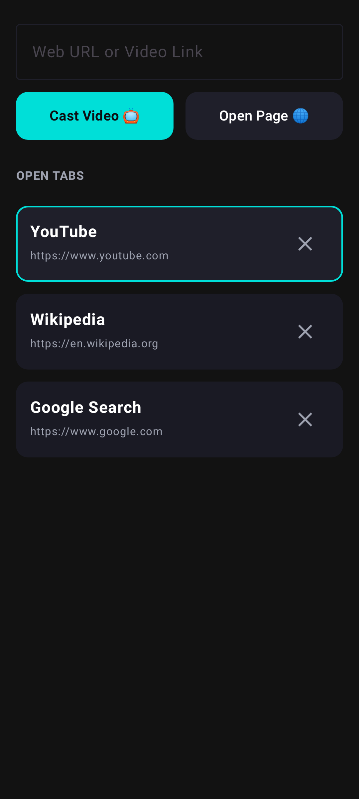
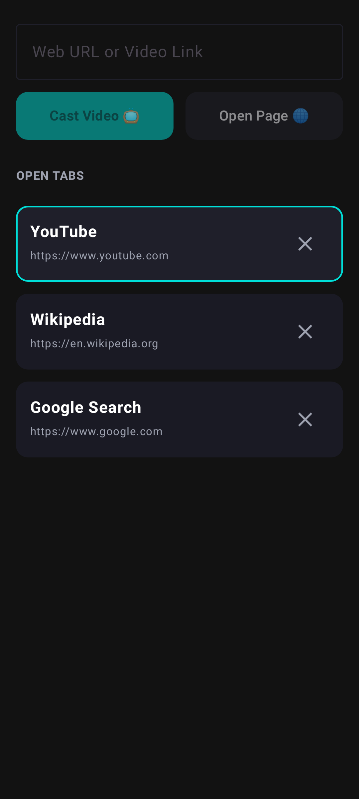
🎨 Palette: Add visual disabled states to input-dependent buttons (#34)

Changed region(s): [[0.0306, 0.0901, 0.4903, 0.1802], [0.6128, 0.1202, 0.8579, 0.1802]]

diff --git a/app/src/main/java/com/teleport/app/mobile/MobileRemoteScreen.kt b/app/src/main/java/com/teleport/app/mobile/MobileRemoteScreen.kt
@@ -256,9 +256,15 @@ fun PairingScreen(
                 },
                 modifier = Modifier.height(56.dp),
                 shape = RoundedCornerShape(12.dp),
-                colors = ButtonDefaults.buttonColors(containerColor = ThemeTokens.Accent)
+                enabled = manualIp.isNotBlank(),
+                colors = ButtonDefaults.buttonColors(
+                    containerColor = ThemeTokens.Accent,
+                    contentColor = ThemeTokens.Background,
+                    disabledContainerColor = ThemeTokens.Accent.copy(alpha = 0.5f),
+                    disabledContentColor = ThemeTokens.Background.copy(alpha = 0.5f)
+                )
             ) {
-                Text("Go", color = ThemeTokens.Background, fontWeight = FontWeight.Bold)
+                Text("Go", fontWeight = FontWeight.Bold)
             }
         }
 
@@ -785,9 +791,15 @@ fun TabsManagerTab(connectionManager: TvConnectionManager, tvState: com.teleport
                 },
                 modifier = Modifier.weight(1f).height(48.dp),
                 shape = RoundedCornerShape(12.dp),
-                colors = ButtonDefaults.buttonColors(containerColor = ThemeTokens.Accent)
+                enabled = newUrl.isNotBlank(),
+                colors = ButtonDefaults.buttonColors(
+                    containerColor = ThemeTokens.Accent,
+                    contentColor = ThemeTokens.Background,
+                    disabledContainerColor = ThemeTokens.Accent.copy(alpha = 0.5f),
+                    disabledContentColor = ThemeTokens.Background.copy(alpha = 0.5f)
+                )
             ) {
-                Text("Cast Video 📺", color = ThemeTokens.Background, fontWeight = FontWeight.Bold)
+                Text("Cast Video 📺", fontWeight = FontWeight.Bold)
             }
             Spacer(modifier = Modifier.width(12.dp))
             Button(
@@ -803,9 +815,15 @@ fun TabsManagerTab(connectionManager: TvConnectionManager, tvState: com.teleport
                 },
                 modifier = Modifier.weight(1f).height(48.dp),
                 shape = RoundedCornerShape(12.dp),
-                colors = ButtonDefaults.buttonColors(containerColor = ThemeTokens.Border)
+                enabled = newUrl.isNotBlank(),
+                colors = ButtonDefaults.buttonColors(
+                    containerColor = ThemeTokens.Border,
+                    contentColor = ThemeTokens.TextMain,
+                    disabledContainerColor = ThemeTokens.Border.copy(alpha = 0.5f),
+                    disabledContentColor = ThemeTokens.TextMain.copy(alpha = 0.5f)
+                )
             ) {
-                Text("Open Page 🌐", color = ThemeTokens.TextMain)
+                Text("Open Page 🌐")
             }
         }
 
@@ -969,10 +987,16 @@ fun QuickInputBar(connectionManager: TvConnectionManager) {
                     textInput = ""
                 }
             },
-            colors = ButtonDefaults.buttonColors(containerColor = ThemeTokens.Accent),
+            enabled = textInput.isNotBlank(),
+            colors = ButtonDefaults.buttonColors(
+                containerColor = ThemeTokens.Accent,
+                contentColor = ThemeTokens.Background,
+                disabledContainerColor = ThemeTokens.Accent.copy(alpha = 0.5f),
+                disabledContentColor = ThemeTokens.Background.copy(alpha = 0.5f)
+            ),
             contentPadding = androidx.compose.foundation.layout.PaddingValues(horizontal = 12.dp)
         ) {
-            Text("Send", color = ThemeTokens.Background, fontWeight = FontWeight.Bold)
+            Text("Send", fontWeight = FontWeight.Bold)
         }
     }
 }

diff --git a/.Jules/palette.md b/.Jules/palette.md
@@ -10,3 +10,6 @@
 ## 2024-05-27 - Inline Clear Buttons in TextFields
 **Learning:** Users often need to rapidly clear entire inputs, such as manual IP addresses, URLs, or command inputs. Without an explicit UI affordance, users are forced to manually highlight text or hold the backspace key, causing unnecessary friction.
 **Action:** Add a trailing IconButton (e.g., Icons.Filled.Clear) inside primary TextFields/OutlinedTextFields that appears when the input is not empty, enabling instant clearing of the field.
+## 2024-05-28 - Visually Disable Input-Dependent Buttons
+**Learning:** Action buttons that depend on text inputs (like entering an IP or URL) shouldn't just fail silently or do nothing when clicked if the input is blank. Users can be confused why tapping the button has no effect.
+**Action:** Always use the `enabled` parameter on `Button` bound to the input's blank state, and explicitly define `disabledContainerColor` and `disabledContentColor` to visually communicate that the action is not currently available.
